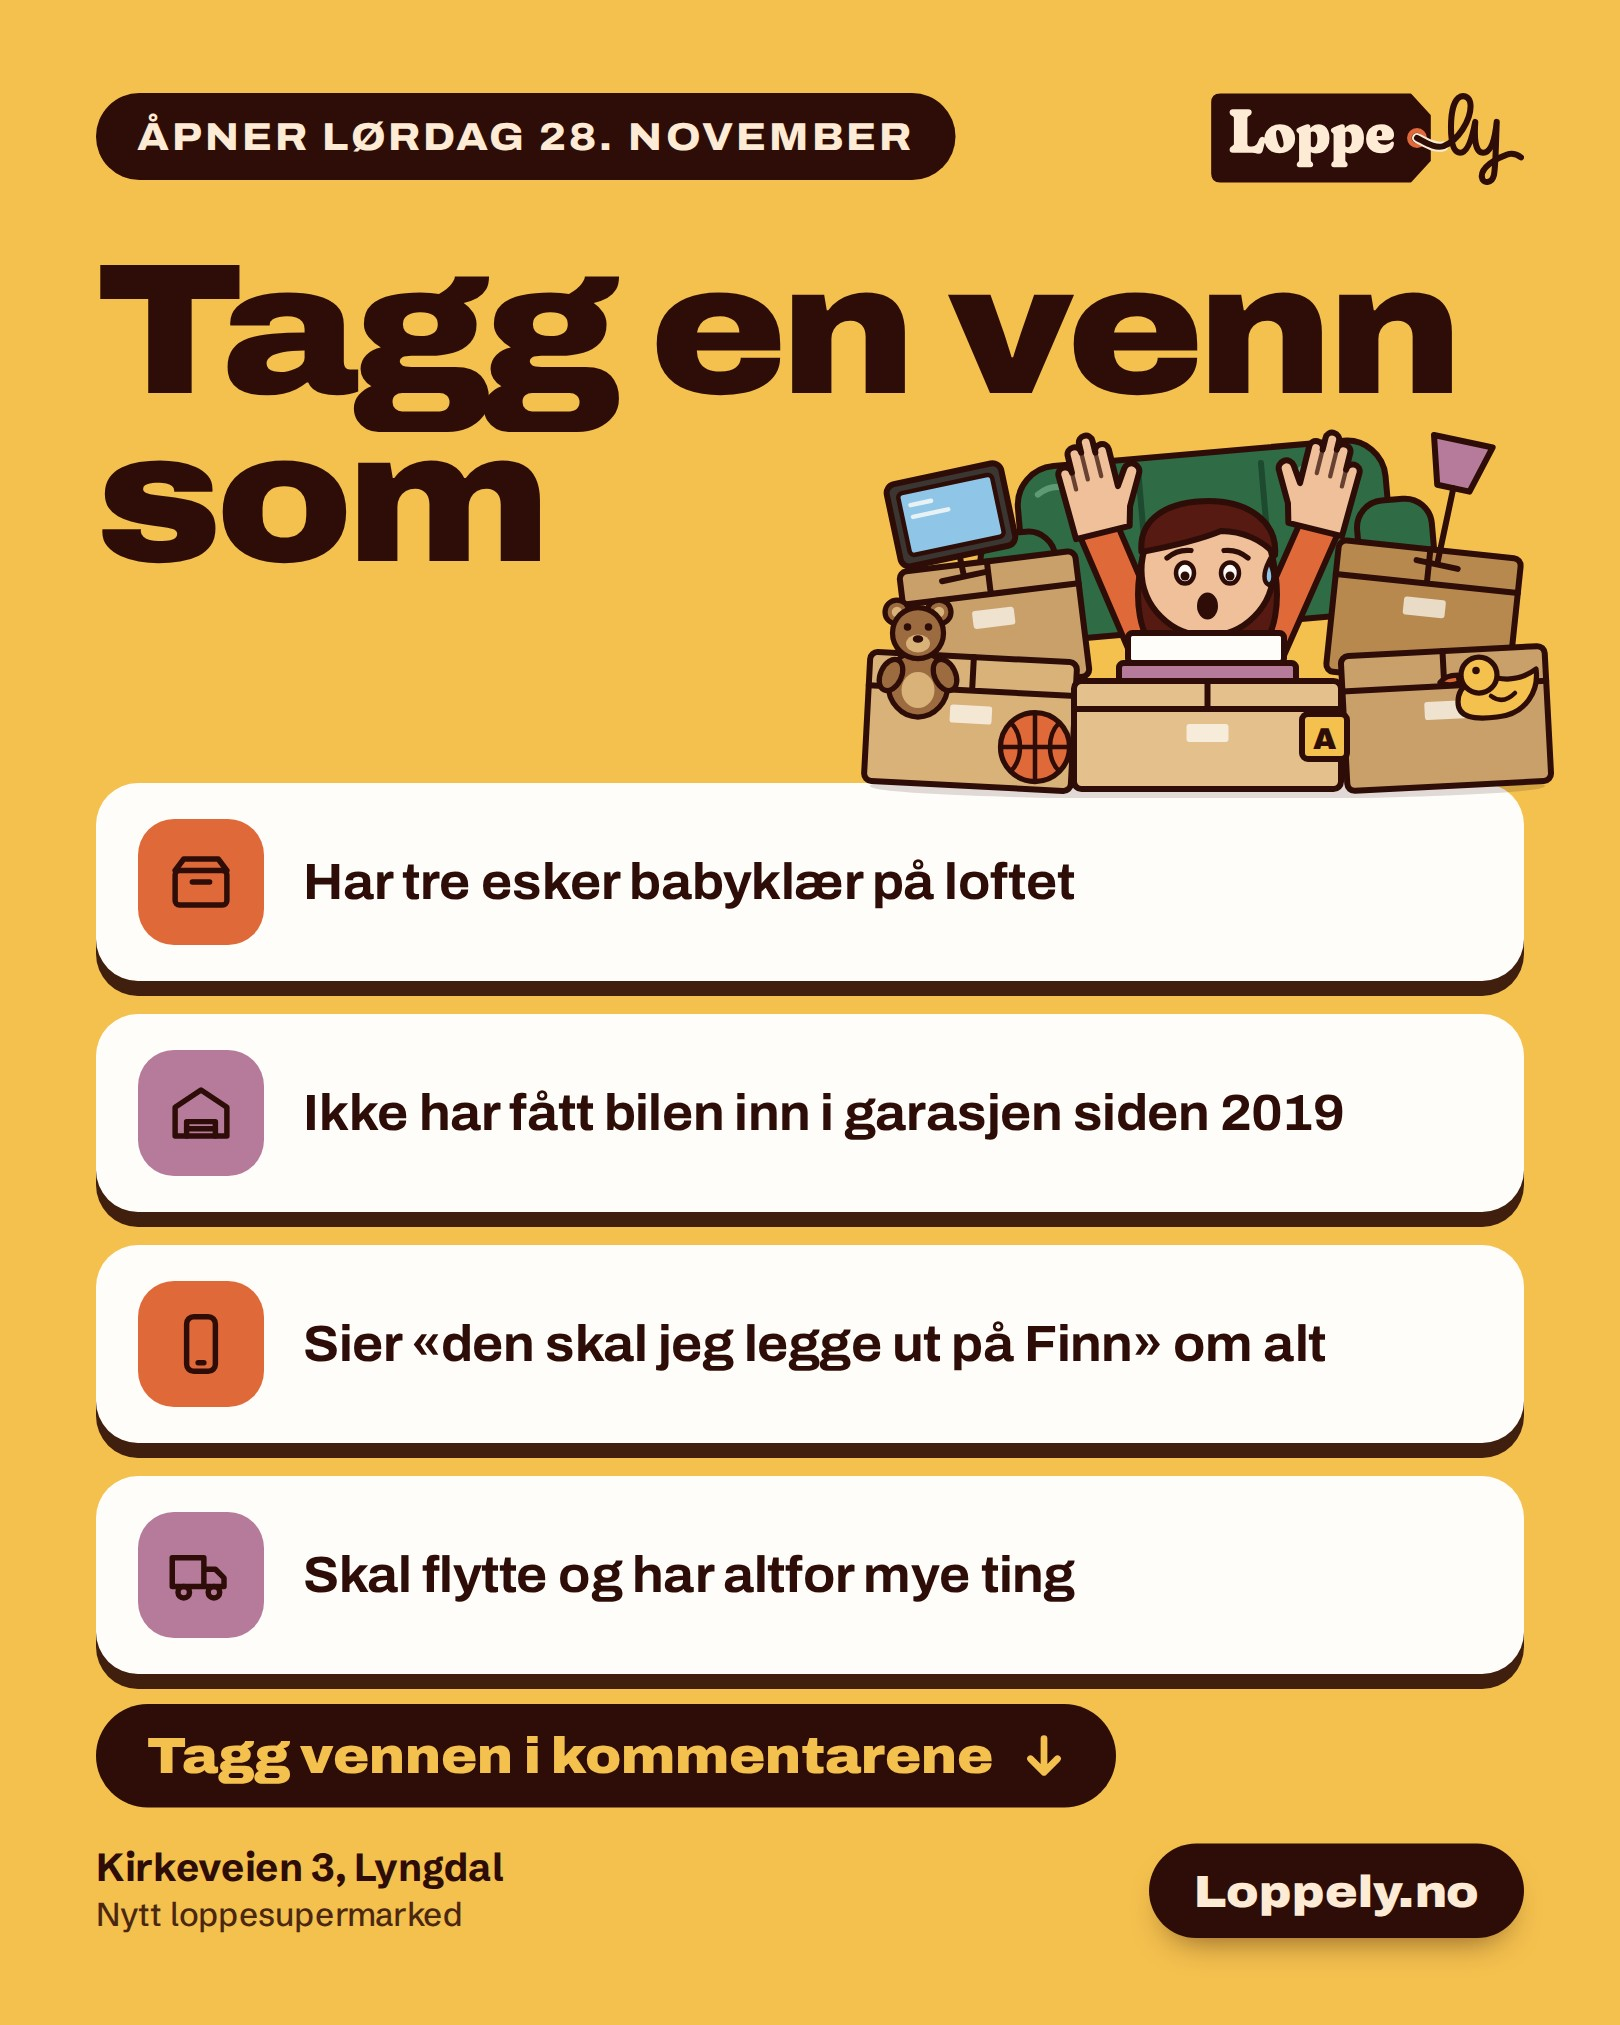
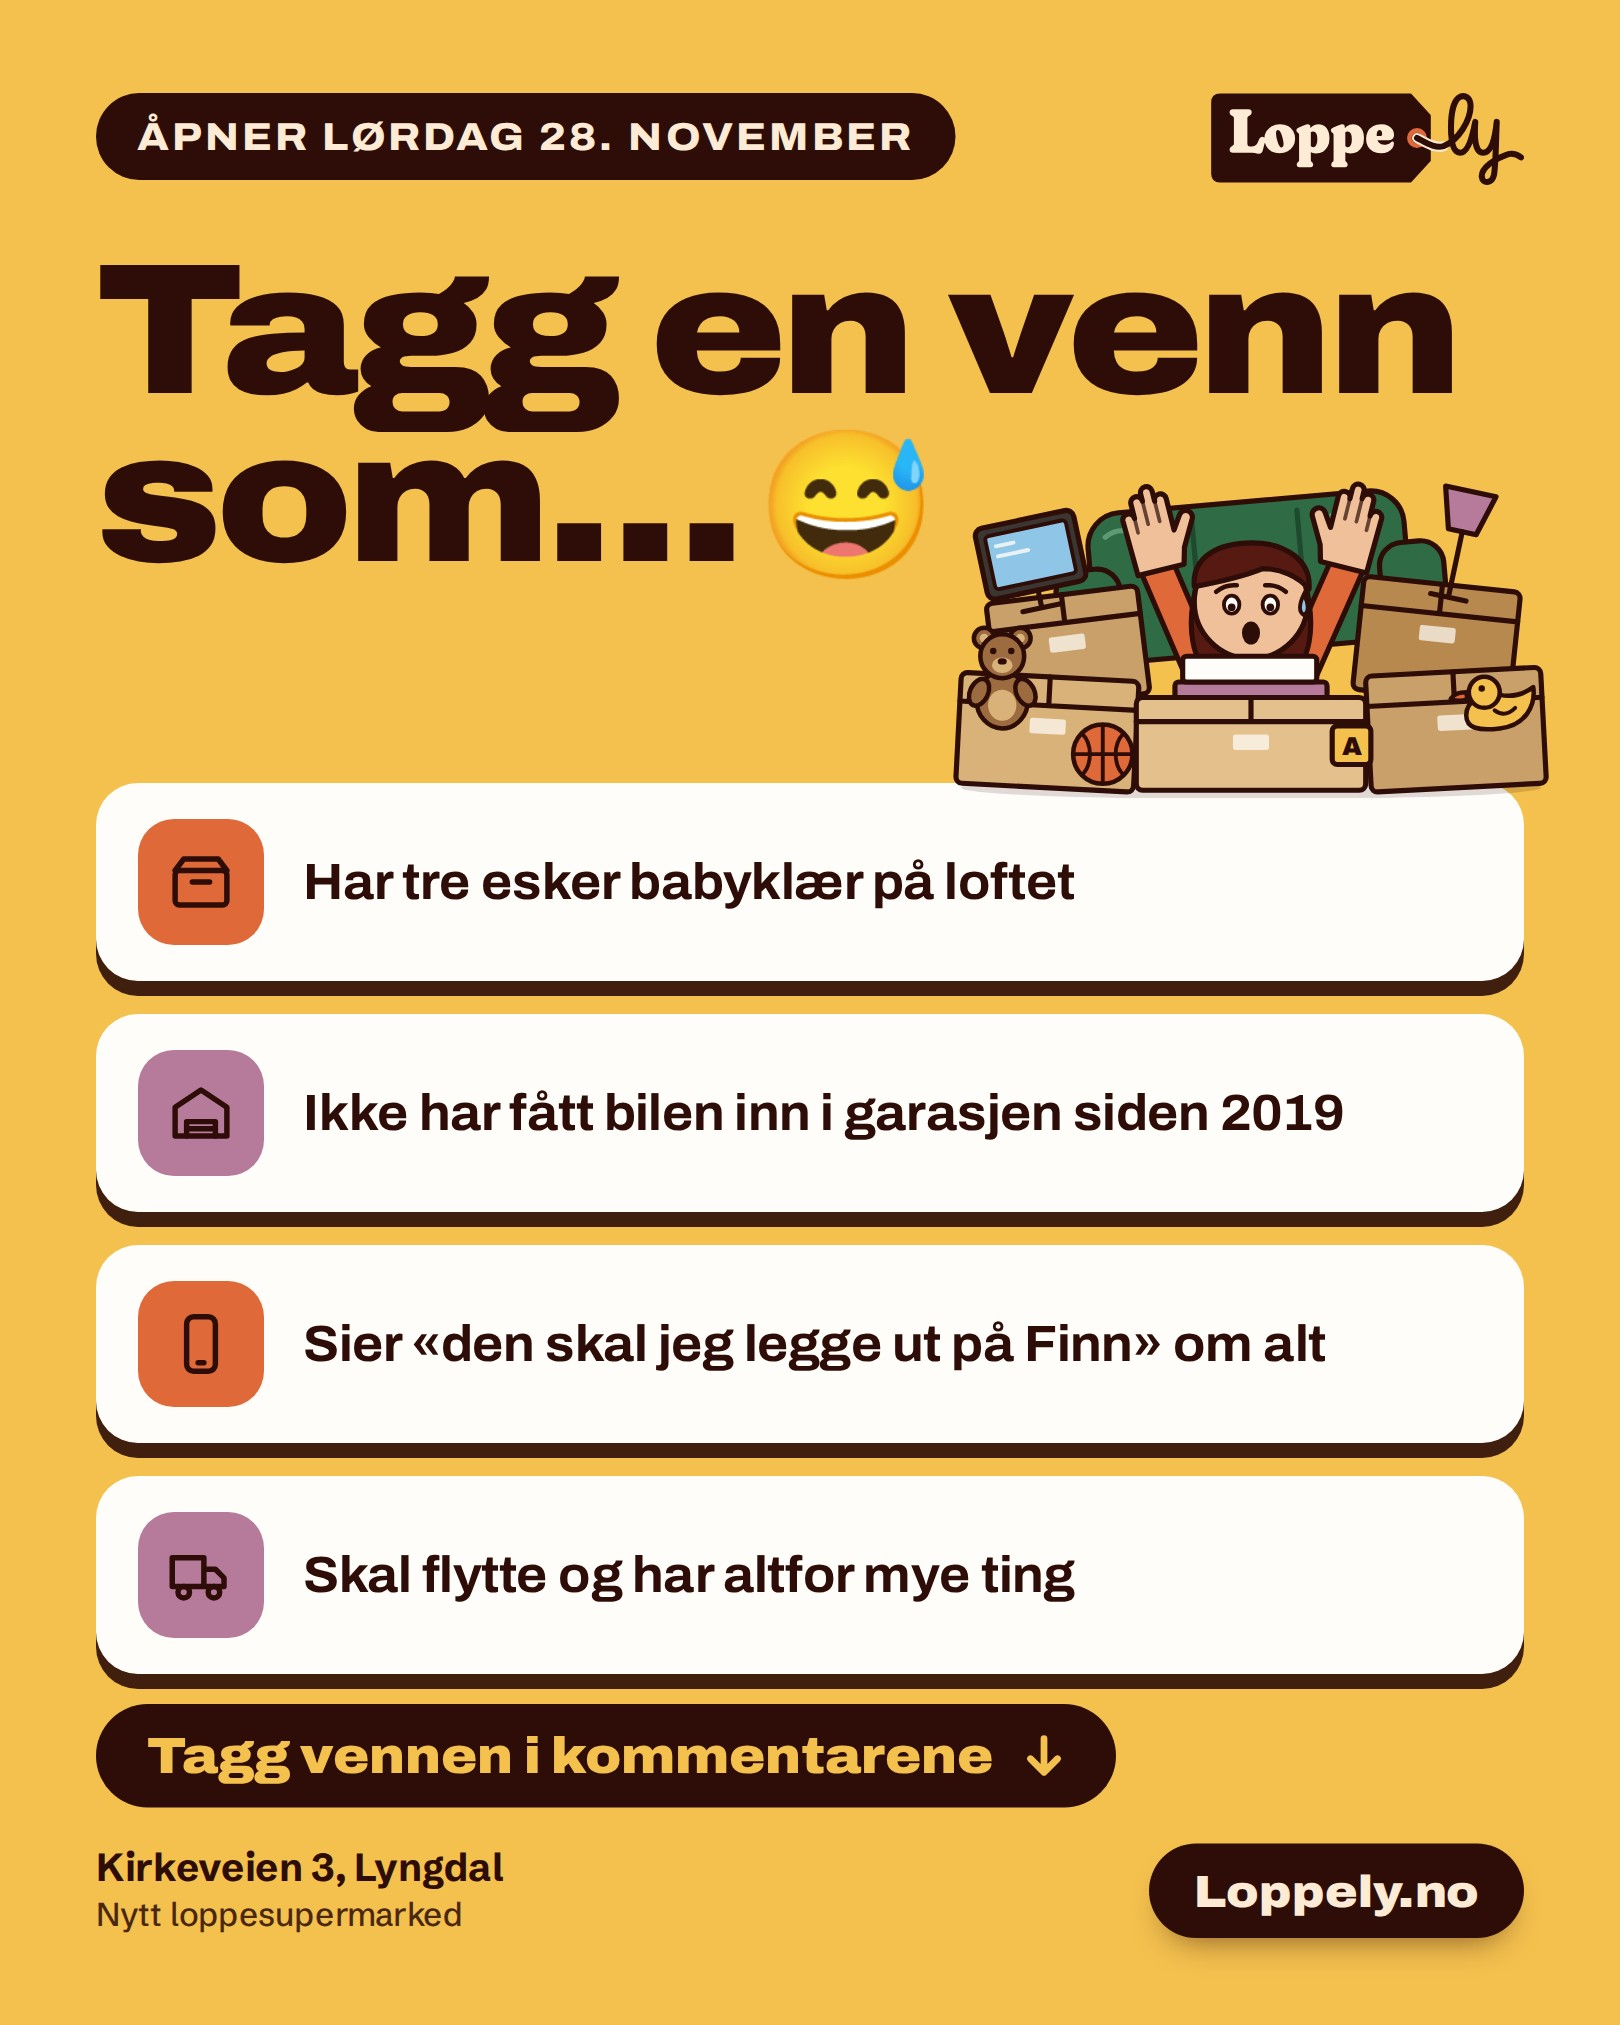
ads: 'Tagg en venn som… 😅'
Claude-Session: https://claude.ai/code/session_01RRhAi942qst8ZUNjrS2TNS

Changed region(s): [[0.3395, 0.1867, 0.9568, 0.4044]]

diff --git a/ads/index.html b/ads/index.html
@@ -360,7 +360,7 @@ Loppely.no</pre>
     <div class="body">
       <h2>Tagg en venn som…</h2>
       <p class="when">For rekkevidde. Folk kjenner seg igjen og tagger.</p>
-      <pre class="cap">Tagg en venn som 👇
+      <pre class="cap">Tagg en venn som… 😅
 
 📦 Har tre esker babyklær på loftet
 🚗 Ikke har fått bilen inn i garasjen siden 2019
